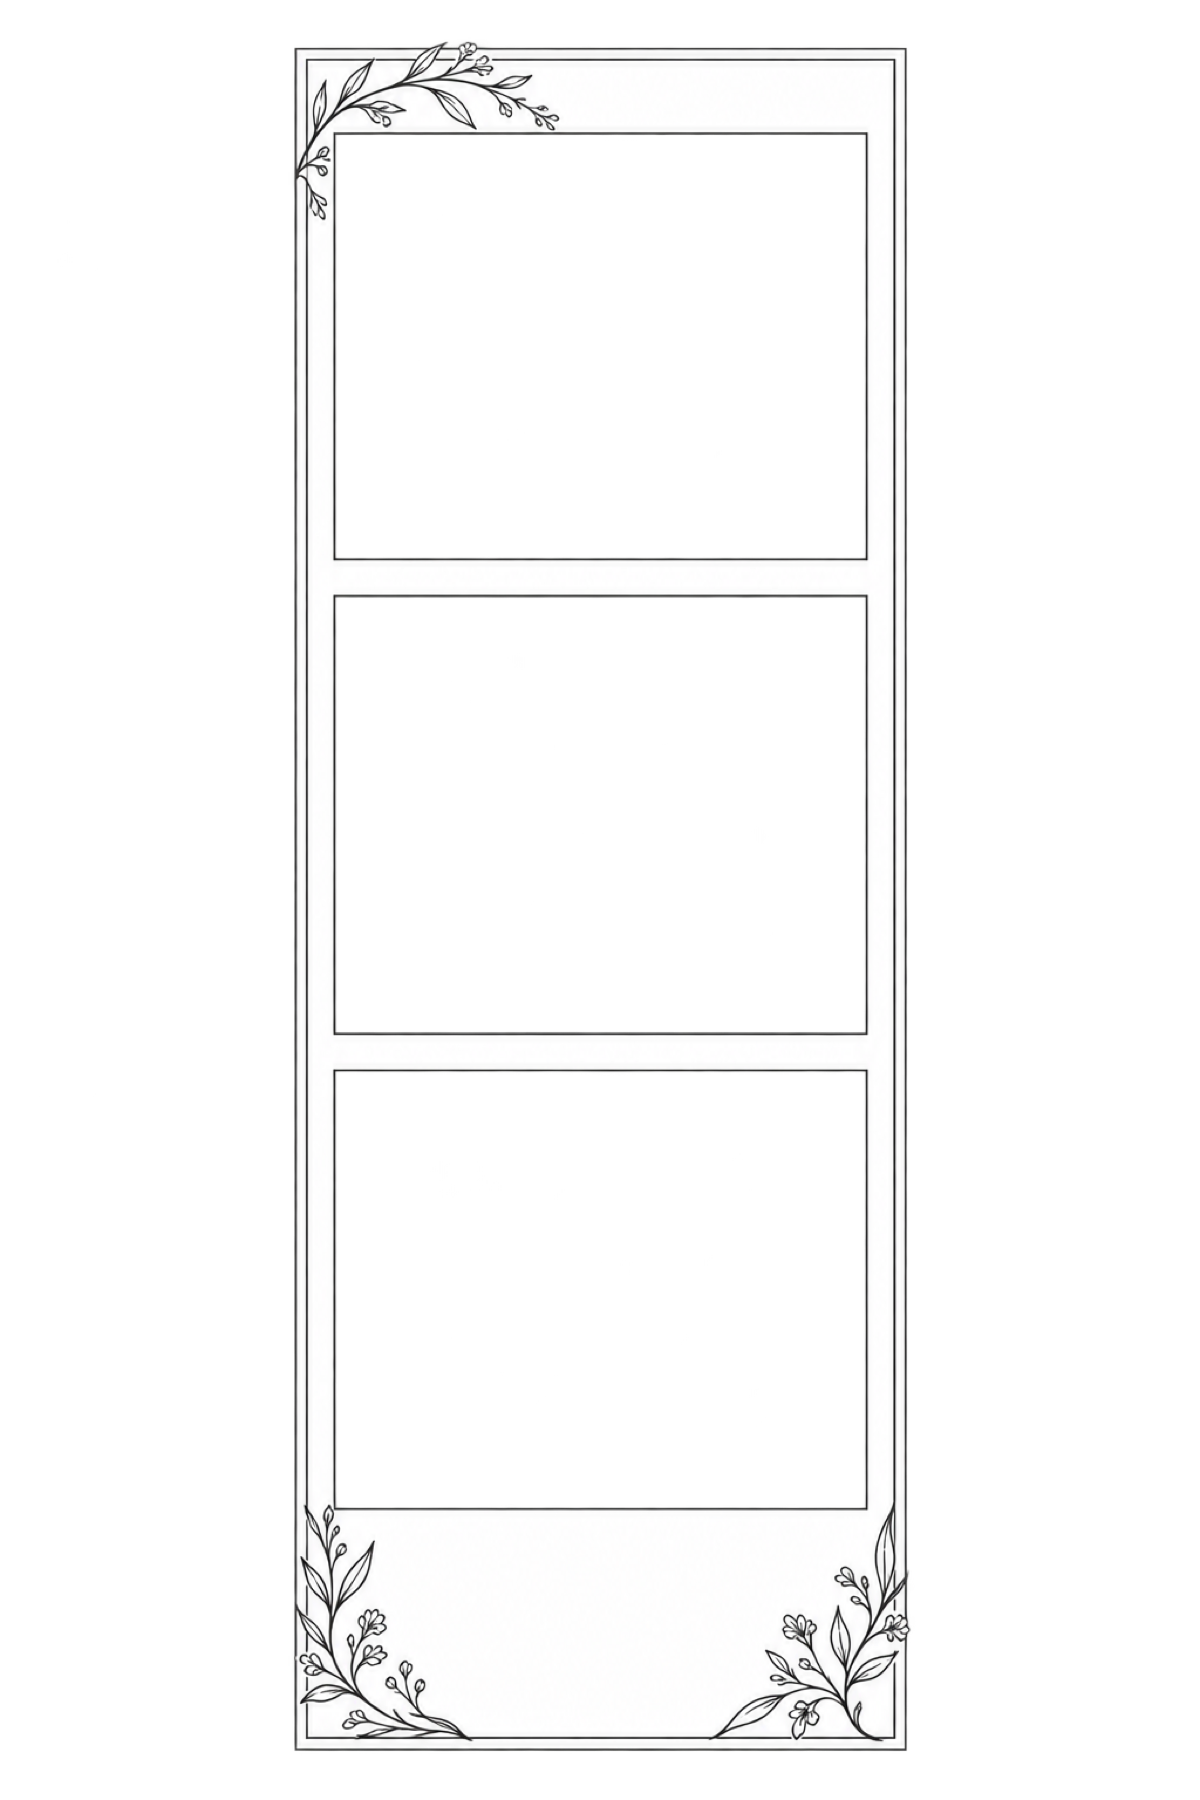
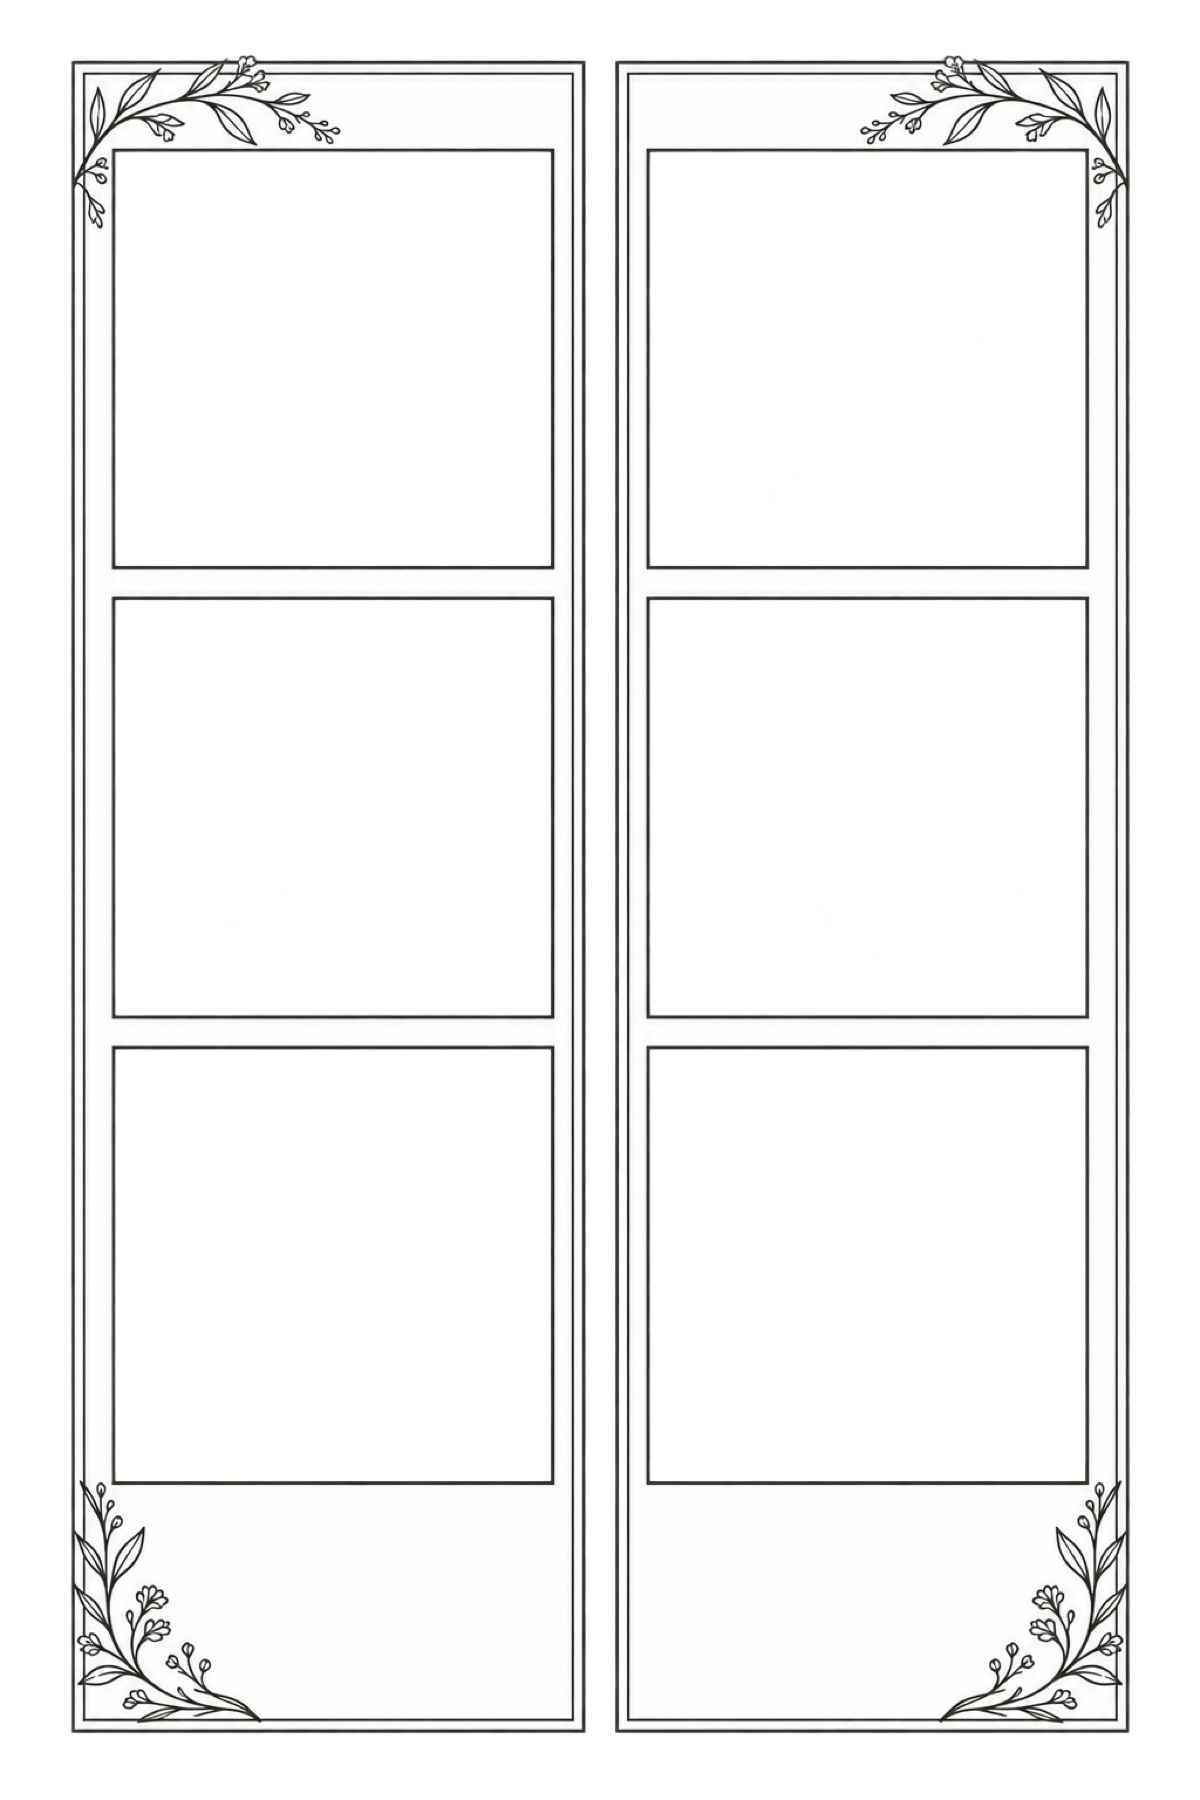
Print duplicate wedding photo strips

Changed region(s): [[0.0617, 0.0, 0.9558, 0.9956]]

diff --git a/browser/smoke.spec.js b/browser/smoke.spec.js
@@ -385,7 +385,8 @@ test("minimal wedding theme is saved with its own artwork", async ({ page }) => 
   expect(event.weddingTheme.templates[0].layout).toBe("photo_strip_3");
   expect(event.weddingTheme.overlays[0].src).toContain("minimal-wedding-overlay-portrait.png");
   expect(event.weddingTheme.templates[0].src).toContain("minimal-wedding-three-photo-strip.png");
-  expect(event.weddingTheme.templates[0].photoSlots).toHaveLength(3);
+  expect(event.weddingTheme.templates[0].photoSlots).toHaveLength(6);
+  expect(event.weddingTheme.templates[0].photoSlots.map((slot) => slot.sourceIndex)).toEqual([0, 1, 2, 0, 1, 2]);
   const loadedSources = await page.evaluate(async () => {
     const theme = window.__photoboothTest.getActiveTheme();
     const sources = [
@@ -404,6 +405,41 @@ test("minimal wedding theme is saved with its own artwork", async ({ page }) => 
   });
   expect(loadedSources.filter((image) => image.error)).toEqual([]);
   expect(loadedSources.filter((image) => image.width !== (image.height === 1800 ? 1200 : 1800))).toEqual([]);
+
+  const stripSamples = await page.evaluate(async () => {
+    const { composeStrip, getActiveTheme } = window.__photoboothTest;
+    const photos = [40, 110, 190].map((value) => {
+      const canvas = document.createElement("canvas");
+      canvas.width = 80;
+      canvas.height = 80;
+      const context = canvas.getContext("2d");
+      context.fillStyle = `rgb(${value}, ${value}, ${value})`;
+      context.fillRect(0, 0, canvas.width, canvas.height);
+      return canvas;
+    });
+    const dataUrl = await composeStrip(getActiveTheme().templates[0], photos);
+    const rendered = new Image();
+    rendered.src = dataUrl;
+    await rendered.decode();
+    const canvas = document.createElement("canvas");
+    canvas.width = rendered.naturalWidth;
+    canvas.height = rendered.naturalHeight;
+    const context = canvas.getContext("2d");
+    context.drawImage(rendered, 0, 0);
+    return [0.2, 0.45, 0.7].map((y) => [0.27, 0.72].map((x) => {
+      const [red, green, blue] = context.getImageData(
+        Math.round(canvas.width * x),
+        Math.round(canvas.height * y),
+        1,
+        1
+      ).data;
+      return [red, green, blue];
+    }));
+  });
+  expect(stripSamples[0][0]).toEqual(stripSamples[0][1]);
+  expect(stripSamples[1][0]).toEqual(stripSamples[1][1]);
+  expect(stripSamples[2][0]).toEqual(stripSamples[2][1]);
+  expect(new Set(stripSamples.map(([left]) => left.join(","))).size).toBe(3);
 });
 
 test("print queue link follows the selected event instead of an old manual queue ID", async ({ page }) => {

diff --git a/scripts/app.js b/scripts/app.js
@@ -13586,13 +13586,18 @@ function createMinimalWeddingTheme(partner1, partner2, date) {
       name: "Minimal Wedding Three-Photo Strip",
       layout: "photo_strip_3",
       photoSlots: [
-        { x: 0.283, y: 0.079, width: 0.435, height: 0.228, sourceIndex: 0 },
-        { x: 0.283, y: 0.334, width: 0.435, height: 0.237, sourceIndex: 1 },
-        { x: 0.283, y: 0.601, width: 0.435, height: 0.232, sourceIndex: 2 },
+        { x: 0.099, y: 0.086, width: 0.356, height: 0.226, sourceIndex: 0 },
+        { x: 0.099, y: 0.335, width: 0.356, height: 0.226, sourceIndex: 1 },
+        { x: 0.099, y: 0.585, width: 0.356, height: 0.235, sourceIndex: 2 },
+        { x: 0.545, y: 0.086, width: 0.352, height: 0.226, sourceIndex: 0 },
+        { x: 0.545, y: 0.335, width: 0.352, height: 0.226, sourceIndex: 1 },
+        { x: 0.545, y: 0.585, width: 0.352, height: 0.235, sourceIndex: 2 },
       ],
       textFields: [
-        { key: "couple_names", xPct: 0.28, yPct: 0.878, wPct: 0.44, hPct: 0.03, fontFamily: "'Great Vibes', cursive", fontWeight: "400", fontSize: 38, minFontSize: 20, color: "#262626", align: "center" },
-        { key: "event_date", xPct: 0.3, yPct: 0.92, wPct: 0.4, hPct: 0.02, fontFamily: "'Lora', serif", fontWeight: "400", fontSize: 21, minFontSize: 14, color: "#555555", align: "center" },
+        { key: "couple_names", xPct: 0.07, yPct: 0.845, wPct: 0.4, hPct: 0.03, fontFamily: "'Great Vibes', cursive", fontWeight: "400", fontSize: 38, minFontSize: 20, color: "#262626", align: "center" },
+        { key: "event_date", xPct: 0.07, yPct: 0.89, wPct: 0.4, hPct: 0.02, fontFamily: "'Lora', serif", fontWeight: "400", fontSize: 21, minFontSize: 14, color: "#555555", align: "center" },
+        { key: "couple_names", xPct: 0.53, yPct: 0.845, wPct: 0.4, hPct: 0.03, fontFamily: "'Great Vibes', cursive", fontWeight: "400", fontSize: 38, minFontSize: 20, color: "#262626", align: "center" },
+        { key: "event_date", xPct: 0.53, yPct: 0.89, wPct: 0.4, hPct: 0.02, fontFamily: "'Lora', serif", fontWeight: "400", fontSize: 21, minFontSize: 14, color: "#555555", align: "center" },
       ],
     },
   ];

diff --git a/builtin-asset-manifests.test.js b/builtin-asset-manifests.test.js
@@ -78,7 +78,10 @@ test("minimal wedding foundation assets are available in both orientations", asy
   assert.equal(entries.filter((entry) => entry.role === "photo-choice").length, 2);
   assert.equal(entries.filter((entry) => entry.category === "thank-you-screen").length, 2);
   assert.equal(entries.filter((entry) => entry.type === "overlay").length, 2);
-  assert.equal(entries.find((entry) => entry.category === "template").layout, "photo_strip_3");
+  const template = entries.find((entry) => entry.category === "template");
+  assert.equal(template.layout, "photo_strip_3");
+  assert.equal(template.photoSlots.length, 6);
+  assert.deepEqual(template.photoSlots.map((slot) => slot.sourceIndex), [0, 1, 2, 0, 1, 2]);
 });
 
 test("summer overlays remain available in built-in asset manifests", async () => {

diff --git a/index.html b/index.html
@@ -8178,7 +8178,7 @@
   </div>
   <input type="file" id="createThemeFolderInput" class="hidden" webkitdirectory multiple>
 
-  <script type="module" src="scripts/app.js?v=20261021-minimal-wedding-keepsakes"></script>
+  <script type="module" src="scripts/app.js?v=20261022-minimal-wedding-double-strip"></script>
 </body>
 
 </html>

diff --git a/sw.js b/sw.js
@@ -1,5 +1,5 @@
 // Bump these to force one-time invalidation when changing strategies.
-const APP_SHELL_CACHE = "pb-app-shell-v54";
+const APP_SHELL_CACHE = "pb-app-shell-v55";
 const RUNTIME_CACHE = "pb-runtime-v5";
 const SHARE_CACHE = "pb-share-v1";
 const OFFLINE_ASSETS_CACHE = "pb-offline-assets-v1";

diff --git a/BUILD_STATUS.md b/BUILD_STATUS.md
@@ -1,14 +1,13 @@
 # Build status
 
-- Current goal: Refine Minimal Wedding to match the user's monochrome photo-keepsake reference.
-- Done: Replaced the warm floral screens with clean paper, black-and-white typography, and sparse botanical details; added dedicated transparent portrait/landscape frames and a three-photo strip with aligned photo openings.
-- In progress: Physical check of the revised wedding artwork on the booth iPad.
-- Next steps: Check the wedding setup and printed keepsakes on the booth iPad at the next setup.
+- Current goal: Match Minimal Wedding print layout to the user's two-strip reference.
+- Done: Minimal Wedding now uses two matching vertical three-photo strips side by side on one print, with duplicate names and date on both strips.
+- In progress: Commit, push, and deploy the verified two-strip print layout.
+- Next steps: Check the printed keepsake on the booth printer at the next setup.
 - Known bugs/blockers: Physical booth-device verification is outstanding.
 - Important decisions: Keep the Asset Library scoped to the selected theme while including generated wedding themes as asset sources.
-- Verification: `npm test` passes (290/290); focused Chromium wedding check passes (1/1), including loading the new screens, overlays, and strip; overlay photo openings and strip slots were checked against their transparent pixels; `git diff --check` passes.
-- Release: Commit `0e01424` pushed to `codex/unify-guest-photo-filter`; deployed to Pages Production on 2026-10-21 as `f8efcc81` at https://decemeberbooth.pages.dev/.
-- Live check: Wedding setup shows the keepsake description, and the idle screen, both overlays, and strip return HTTP 200.
+- Verification: `npm test` passes (290/290); focused Chromium wedding render check passes (1/1), confirming three captured images repeat in the same positions across both strips; `git diff --check` passes.
+- Release: Commit `0e01424` / Pages deployment `f8efcc81` had the single-strip print layout. Two-strip correction is pending sync.
 
 ## Existing production records
 
